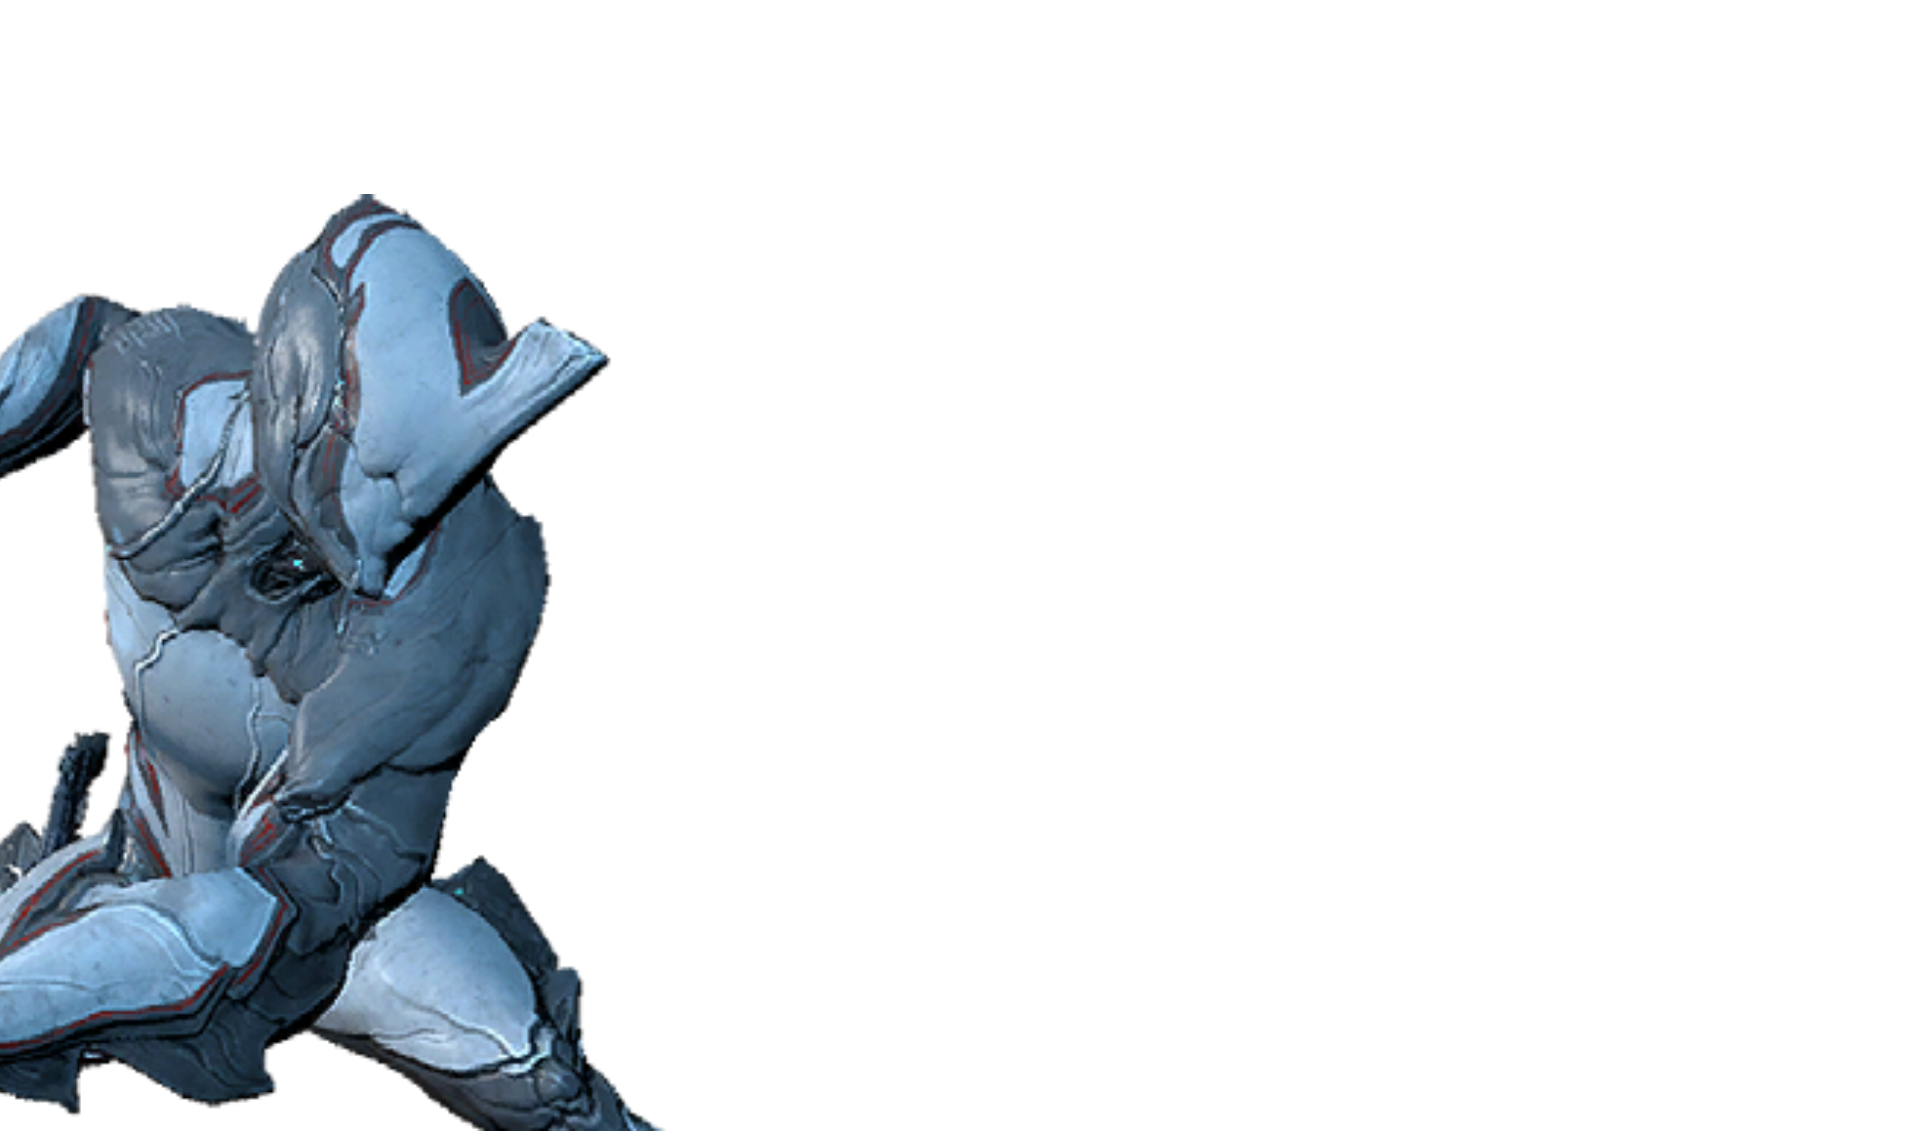
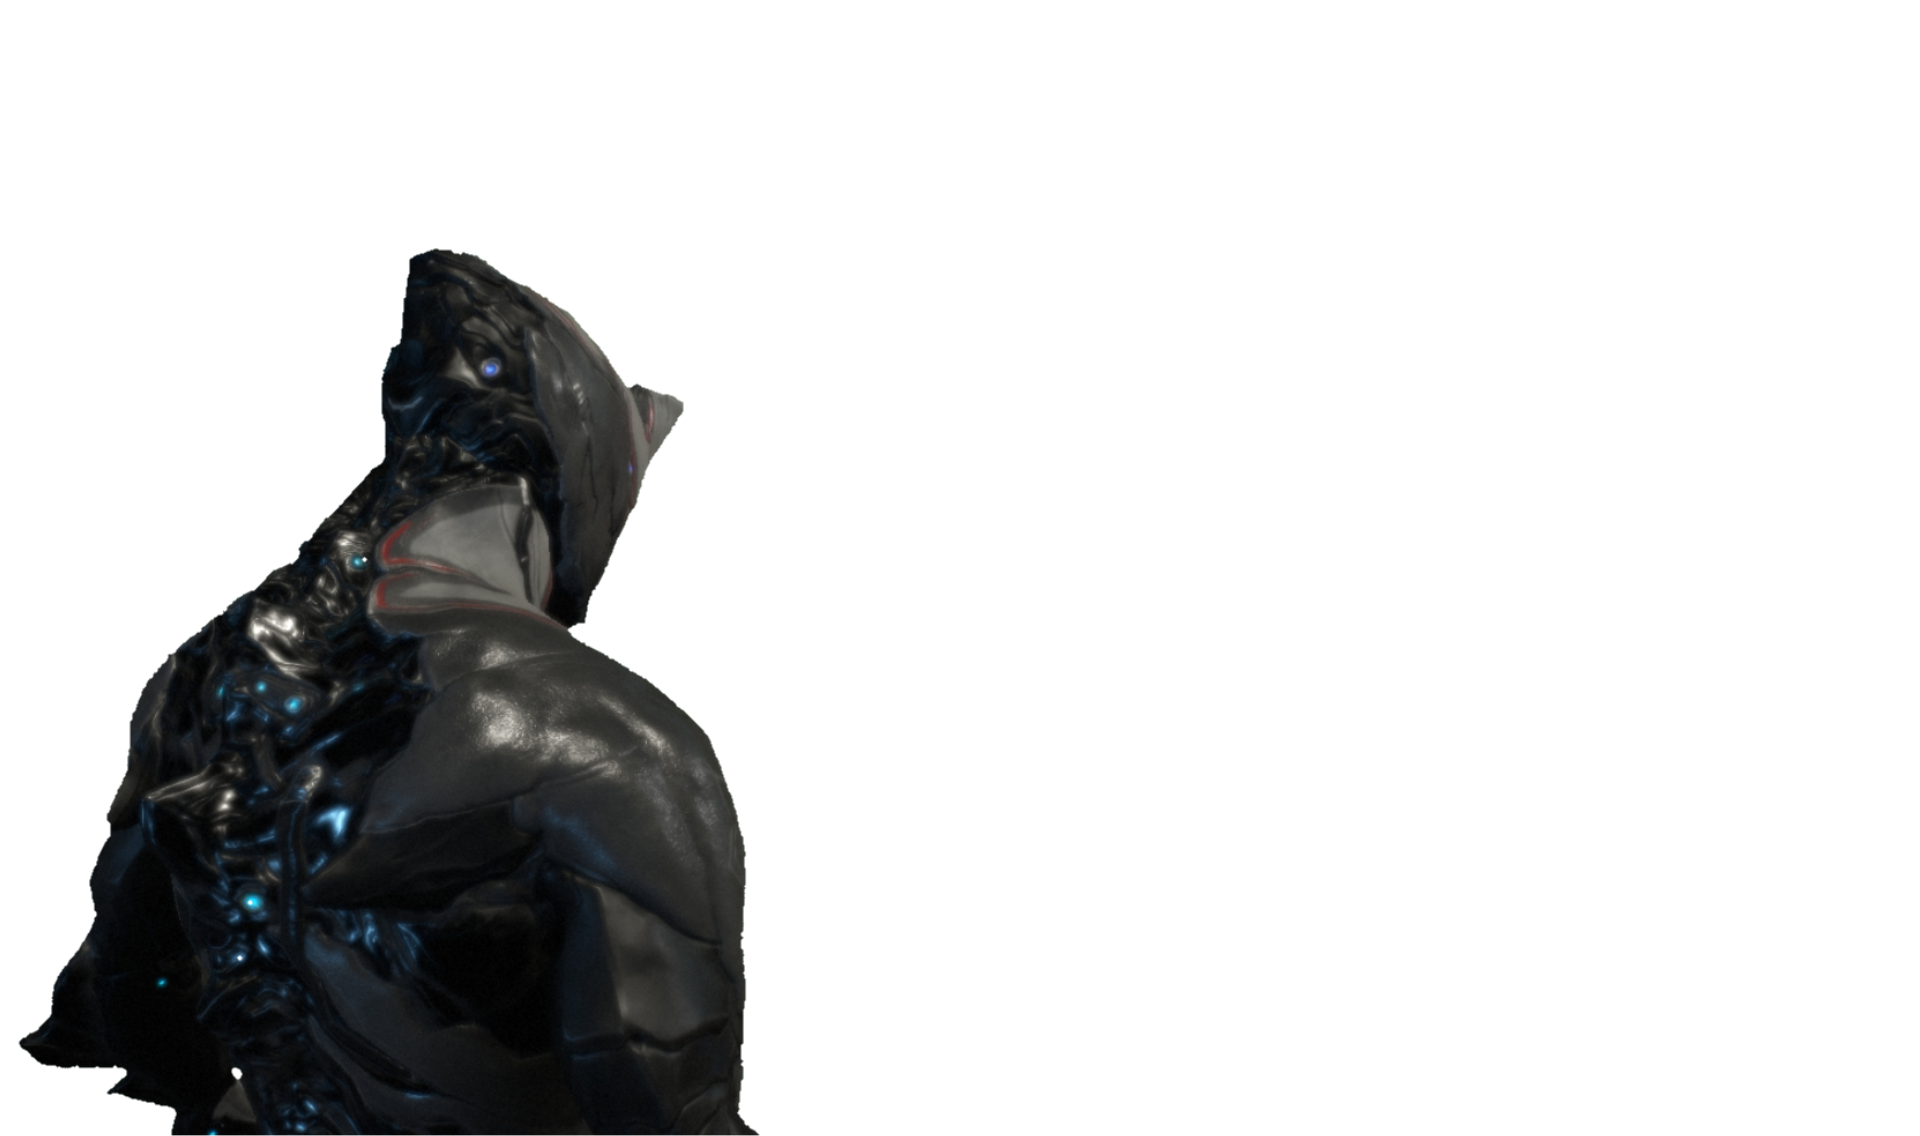
Added an over-the-shoulder image.

Changed region(s): [[0.0, 0.154, 0.4062, 1.0]]

diff --git a/Changelog.md b/Changelog.md
@@ -1,3 +1,14 @@
+### 5/21/2019 - 0.2.1.5
+
+No release, but added the final over-the-shoulder view, marked other character graphics as done
+or skipped.
+
+It's a lot harder than expected to get a good image of Excalibur for this. Lighting in captura
+is very dim, and more importantly, Warframes are much taller and skinnier than Spire characters.
+
+Ironclad is roughly 4 heads high, while Excalibur is 6 heads high even while in a stance - 
+he's probably closer to 7 heads high while standing straight..
+
 ### 5/18/2019 - 0.2.1.4
 
 Relics!

diff --git a/README.md b/README.md
@@ -10,8 +10,8 @@ Graphics progress:
 * Relics: DONE
 * Cards: 0/78
 * Other: 
-    * Idle graphic (0/1)
-    * Campfire Shoulder view (0/1)
+    * Idle/Dead graphic: SKIPPED
+    * Campfire Shoulder view: DONE
     * Card backgrounds (0/3)
     * Energy Orb (0/1)
 
